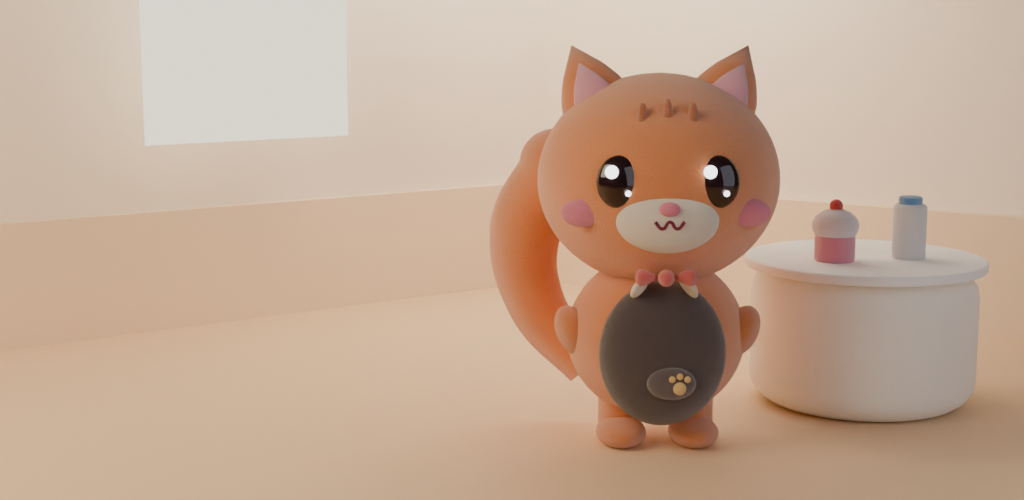
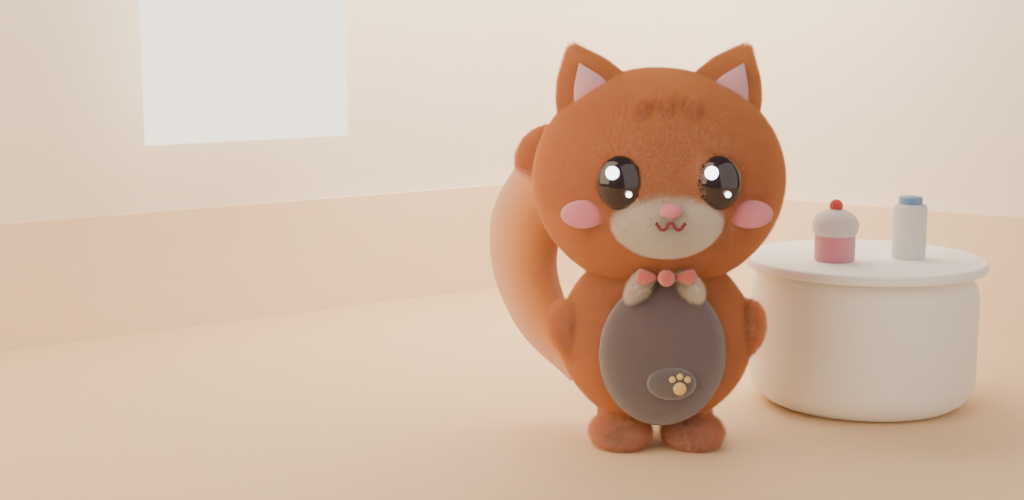
Softer 3D Mango: needle-felt fuzz (particle hair) on fur, muzzle, ears, paws and tail; face features on top of the fuzz; gentler, bigger lights; lighter apron; dreamier blur

diff --git a/tools/blender/feature-scene.py b/tools/blender/feature-scene.py
@@ -49,7 +49,7 @@ def felt(name, color, sheen=0.9, rough=0.95, fuzz=0.6):
     set_input(bsdf, 'Roughness', rough)
     set_input(bsdf, ['Sheen Weight', 'Sheen'], sheen)
     set_input(bsdf, ['Sheen Roughness'], 0.6)
-    set_input(bsdf, ['Subsurface Weight', 'Subsurface'], 0.08)
+    set_input(bsdf, ['Subsurface Weight', 'Subsurface'], 0.18)
     noise = nt.nodes.new('ShaderNodeTexNoise')
     set_input(noise, 'Scale', 120.0)
     set_input(noise, 'Detail', 10.0)
@@ -128,9 +128,9 @@ def cone(loc, r1, depth, mat, rot=(0, 0, 0), scale=(1, 1, 1)):
 
 
 # ------------------------------------------------------------------ palette (the game's colours)
-GINGER, GINGER_D, CREAM = '#ee8a3c', '#c8692a', '#fff1dc'
+GINGER, GINGER_D, CREAM = '#f8a050', '#d9783a', '#fff4e4'
 PINK, BLUSH, INK = '#ffb3c6', '#ff8fab', '#2a1c22'
-COCOA, BOW, GOLD = '#3b2f36', '#e8504f', '#ffd68a'
+COCOA, BOW, GOLD = '#5a4650', '#e8504f', '#ffd68a'
 
 fur = felt('fur', GINGER)
 fur_d = felt('fur_dark', GINGER_D)
@@ -199,11 +199,11 @@ for side in (-1, 1):  # rounded felt ears with pink insides
     cone(at(side * 0.4, 0.02, HZ + 0.55), 0.3, 0.52, fur, rot=(0, side * 24, 0), scale=(1, 0.55, 1))
     cone(at(side * 0.39, -0.08, HZ + 0.52), 0.18, 0.34, pink, rot=(0, side * 24, 0), scale=(1, 0.35, 1))
 for side in (-1, 1):  # big glossy eyes with a big and a little highlight, and rosy cheeks
-    blob(at(side * 0.25, -0.5, HZ + 0.04), 0.13, (0.92, 0.55, 1.08), eye)
-    blob(at(side * 0.25 - 0.045, -0.58, HZ + 0.1), 0.035, (1, 0.6, 1), shine, sub=0)
-    blob(at(side * 0.25 + 0.04, -0.58, HZ - 0.01), 0.016, (1, 0.6, 1), shine, sub=0)
-    blob(at(side * 0.43, -0.42, HZ - 0.13), 0.1, (1.2, 0.4, 0.75), blush)
-blob(at(0, -0.6, HZ - 0.09), 0.045, (1.25, 0.8, 0.85), felt('nose', BLUSH, sheen=0.3))  # tiny pink nose
+    blob(at(side * 0.25, -0.54, HZ + 0.04), 0.13, (0.92, 0.55, 1.08), eye)
+    blob(at(side * 0.25 - 0.045, -0.62, HZ + 0.1), 0.035, (1, 0.6, 1), shine, sub=0)
+    blob(at(side * 0.25 + 0.04, -0.62, HZ - 0.01), 0.016, (1, 0.6, 1), shine, sub=0)
+    blob(at(side * 0.43, -0.47, HZ - 0.13), 0.1, (1.2, 0.4, 0.75), blush)
+blob(at(0, -0.645, HZ - 0.09), 0.045, (1.25, 0.8, 0.85), felt('nose', BLUSH, sheen=0.3))  # tiny pink nose
 mouth = bpy.data.curves.new('mouth', 'CURVE')
 mouth.dimensions = '3D'
 mouth.bevel_depth = 0.009
@@ -212,7 +212,7 @@ w = mouth.splines.new('BEZIER')
 wpts = [(-0.075, HZ - 0.15), (-0.037, HZ - 0.185), (0, HZ - 0.15), (0.037, HZ - 0.185), (0.075, HZ - 0.15)]
 w.bezier_points.add(len(wpts) - 1)
 for bp, (x, z) in zip(w.bezier_points, wpts):
-    bp.co = at(x, -0.615, z)
+    bp.co = at(x, -0.655, z)
     bp.handle_left_type = bp.handle_right_type = 'AUTO'
 mouth_obj = bpy.data.objects.new('mouth', mouth)
 bpy.context.collection.objects.link(mouth_obj)
@@ -250,6 +250,42 @@ win.scale = (1.6, 1.3, 1)
 win.data.materials.append(emit('window', '#fff4dc', 3.0))
 
 
+def set_any(obj, **props):
+    """Set settings that exist in this Blender version; skip the rest."""
+    for k, v in props.items():
+        try:
+            setattr(obj, k, v)
+        except (AttributeError, TypeError, ValueError):
+            pass
+
+
+def add_fuzz(obj, length=0.05, density=2600):
+    """Needle-felt fuzz: short, slightly wild fibres all over the surface (particle hair, rendered as fine curves)."""
+    try:
+        d = obj.dimensions
+        area = 2 * (d.x * d.y + d.y * d.z + d.x * d.z)
+        mod = obj.modifiers.new('fuzz', 'PARTICLE_SYSTEM')
+        ps = mod.particle_system.settings
+        ps.type = 'HAIR'
+        set_any(ps, count=max(150, int(area * density)), hair_length=length, emit_from='FACE', use_emit_random=True,
+                child_type='INTERPOLATED', child_nbr=4, rendered_child_count=12, child_radius=0.06,
+                roughness_1=0.012, roughness_1_size=0.4, roughness_2=0.02, roughness_endpoint=0.01,
+                root_radius=1.0, tip_radius=0.0, radius_scale=0.0025, hair_step=4)
+    except Exception as e:  # if this Blender has no particle hair, the felt still renders without fuzz
+        print('fuzz skipped on', obj.name, e)
+
+
+# the tail is a curve: make it a mesh so it can grow fuzz too
+bpy.ops.object.select_all(action='DESELECT')
+tail_obj.select_set(True)
+bpy.context.view_layer.objects.active = tail_obj
+bpy.ops.object.convert(target='MESH')
+FUZZY = {'fur', 'fur_dark', 'cream'}
+for ob in list(bpy.data.objects):
+    if ob.type == 'MESH' and ob.data.materials and ob.data.materials[0] and ob.data.materials[0].name in FUZZY and ob.location.x > 0.6:
+        add_fuzz(ob, length=0.032 if ob.location.z > 1.1 else 0.05)  # shorter on the head, around the face
+
+
 def light(kind, loc, energy, color, size=None, rot=(0, 0, 0)):
     bpy.ops.object.light_add(type=kind, location=loc, rotation=[math.radians(a) for a in rot])
     l = bpy.context.active_object
@@ -260,9 +296,9 @@ def light(kind, loc, energy, color, size=None, rot=(0, 0, 0)):
     return l
 
 
-light('AREA', (-3.5, -2.0, 4.0), 520, '#ffe8c8', 4.0, (55, 0, -55))   # warm window key light from the left
-light('AREA', (5.5, -4.0, 2.5), 150, '#e8eeff', 5.0, (70, 0, 50))     # soft cool fill from the right
-light('AREA', (1.5, 3.0, 4.5), 300, '#fff1dc', 3.0, (-40, 0, 180))    # rim light from behind for the felt fuzz
+light('AREA', (-3.5, -2.0, 4.0), 720, '#ffe8c8', 8.0, (55, 0, -55))   # warm window key light from the left
+light('AREA', (5.5, -4.0, 2.5), 220, '#fff4ea', 8.0, (70, 0, 50))     # soft cool fill from the right
+light('AREA', (1.5, 3.0, 4.5), 380, '#fff1dc', 4.0, (-40, 0, 180))    # rim light from behind for the felt fuzz
 
 world = bpy.data.worlds.new('world')
 scene.world = world
@@ -278,7 +314,7 @@ cam.rotation_euler = direction.to_track_quat('-Z', 'Y').to_euler()
 scene.camera = cam
 cam.data.dof.use_dof = True
 cam.data.dof.focus_distance = (Vector(at(0, 0, 1.0)) - cam.location).length
-cam.data.dof.aperture_fstop = 5.6
+cam.data.dof.aperture_fstop = 2.8
 
 scene.render.engine = 'CYCLES'
 scene.cycles.samples = SAMPLES
@@ -288,7 +324,7 @@ scene.render.resolution_percentage = 100
 scene.render.image_settings.file_format = 'PNG'
 try:
     scene.view_settings.view_transform = 'AgX'
-    scene.view_settings.look = 'AgX - Punchy'
+    scene.view_settings.look = 'AgX - Base Contrast'
 except TypeError:
     pass
 scene.render.filepath = OUT
